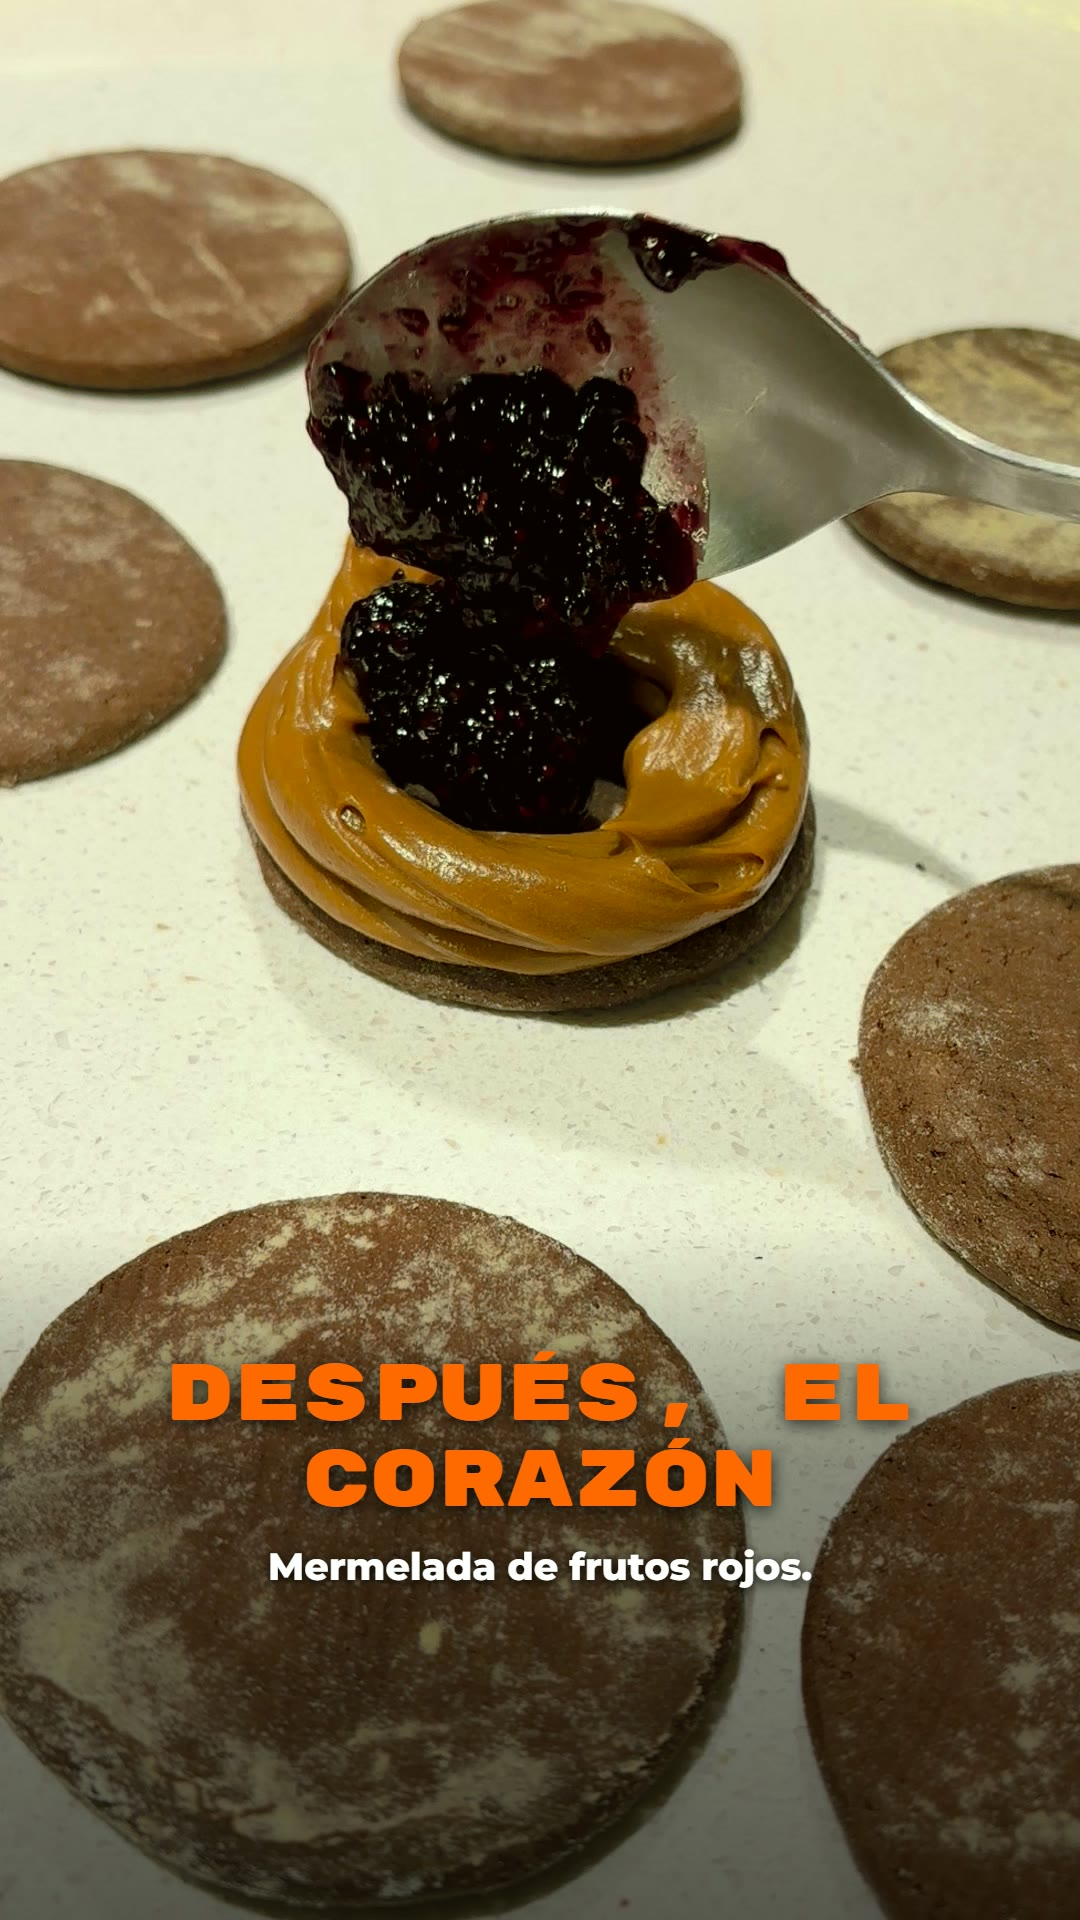
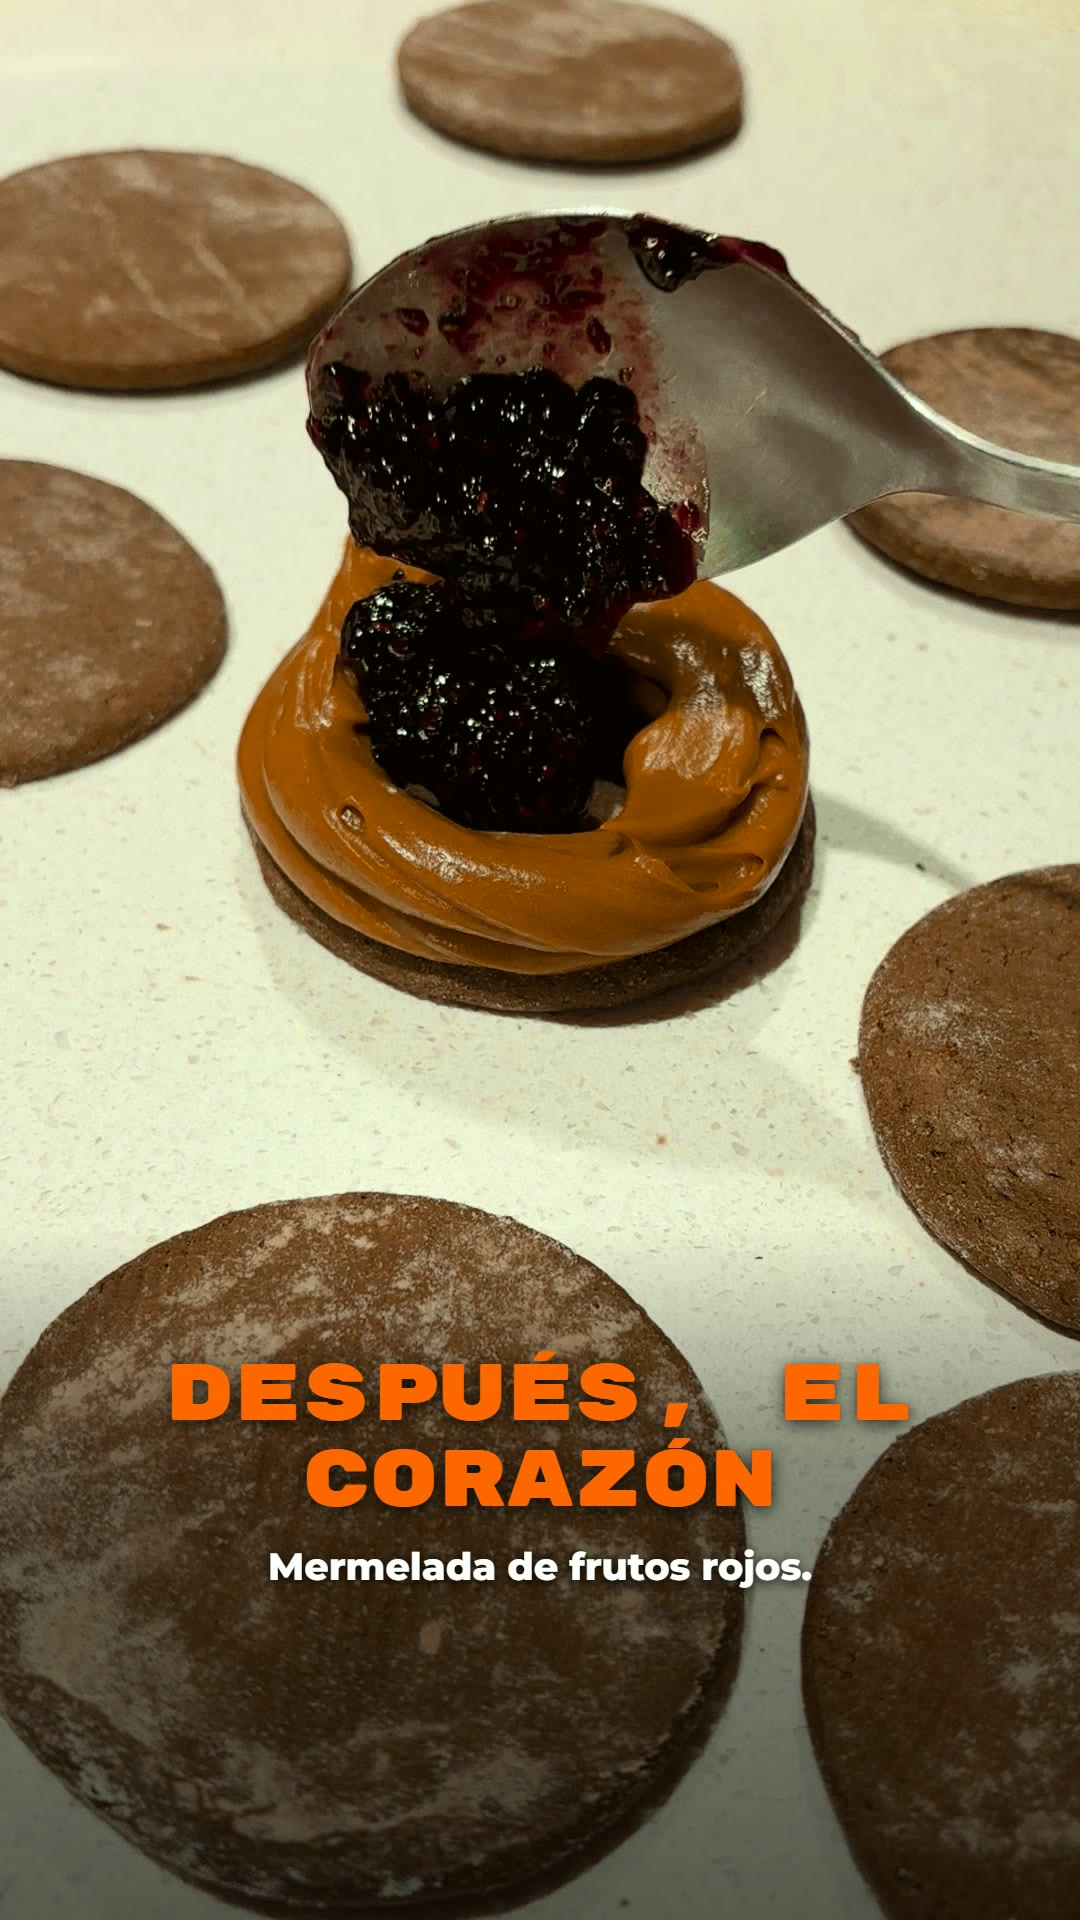
Historias: jue-19-1 y jue-19-2 con el dulce color caramelo, revisión de las semanas 3 y 4 y semana del 9 al 13 completa

diff --git a/monte-riko/historias-noviembre/README.md b/monte-riko/historias-noviembre/README.md
@@ -59,6 +59,8 @@ eel-v2ideosrcChiste.tsx` (`npx remotion still` con el texto por props) y FFmpeg
 - `vie-6-2.jpg`: LAS CAJAS VAN A TODO EL PAÍS. **Ojo:** Guardala en la destacada "Envíos".
 - `vie-6-3.jpg`: ¿DESDE DÓNDE ME VES? **Sticker:** Caja de preguntas: "Decime tu ciudad".
 
+### Semana del 9 al 13: publicada y marcada completa en Trello (14 de noviembre 2026).
+
 ### Lun 9: Alguien nuevo en la cocina (rehechas el 9 de noviembre 2026: anuncian el reel 3D del martes)
 - `lun-9-1.jpg`: HAY ALGUIEN NUEVO EN LA COCINA. "Mañana lo conocés." El pastelero 3D con la masa, sin los textos del reel.
 - `lun-9-2.jpg`: MAÑANA TE MUESTRO CÓMO SE HACE. "Un alfajor de +100 g. A las 18:00." Foto `alfajor-partido-mitades` con el filtro del dulce. El texto va más arriba para dejar lugar al contador (pedido de Tomás, 9 de noviembre 2026). **Sticker:** cuenta regresiva para mañana a las 18:00, en el hueco gris de abajo del texto.
@@ -99,7 +101,7 @@ eel-v2ideosrcChiste.tsx` (`npx remotion still` con el texto por props) y FFmpeg
 - `mie-18-2.jpg`: NEGRO. SIEMPRE. Rehecha el 10 de noviembre 2026: el chocolate salía verdoso.
 - `mie-18-3.jpg`: ¿FINITO O BIEN GRUESO? Rehecha el 10 de noviembre 2026: el chocolate salía verdoso. **Sticker:** Encuesta: Finito / Bien grueso.
 
-### Jue 19: El patagónico
+### Jue 19: El patagónico (revisadas el 14 de noviembre 2026: la 1 y la 2 tenían el dulce color mostaza y se pasaron por `caramelo.py`; en Drive las viejas quedaron como "VIEJA - …")
 - `jue-19-1.jpg`: PRIMERO, LA CORONA
 - `jue-19-2.jpg`: DESPUÉS, EL CORAZÓN
 - `jue-19-3.jpg`: ASÍ QUEDA. **Sticker:** Sticker de enlace a monteriko.com.ar.
@@ -134,3 +136,9 @@ eel-v2ideosrcChiste.tsx` (`npx remotion still` con el texto por props) y FFmpeg
 - `vie-27-1.jpg`: AUTÉNTICO MARPLATENSE
 - `vie-27-2.jpg`: ¿TENÉS A ALGUIEN LEJOS DE MAR DEL PLATA?
 - `vie-27-3.jpg`: MANDALE UNA CAJA. **Sticker:** Sticker de enlace a monteriko.com.ar.
+
+## Revisión del 14 de noviembre 2026 (semanas 3 y 4)
+- Todas las placas del 16 al 27 están en Drive (`Historias para publicar/Semana 3` y `Semana 4`) y coinciden con las del repo.
+- Arregladas: `jue-19-1` y `jue-19-2` (dulce mostaza → caramelo). `jue-26-2` y `mar-24-1` ya tenían buen color.
+- Fotos repetidas, se dejaron porque van en días distintos: la de la caja en `lun-23-3` y `vie-27-3`, la del termo en la playa en `mie-25-2` y `vie-27-1`. `lun-16-1` y `lun-16-2` son la misma bandeja (la 2 pregunta cuántas tapas hay).
+- Trello: las semanas del 16 al 20 y del 23 al 27 pasaron a "Noviembre: listo para publicar".
